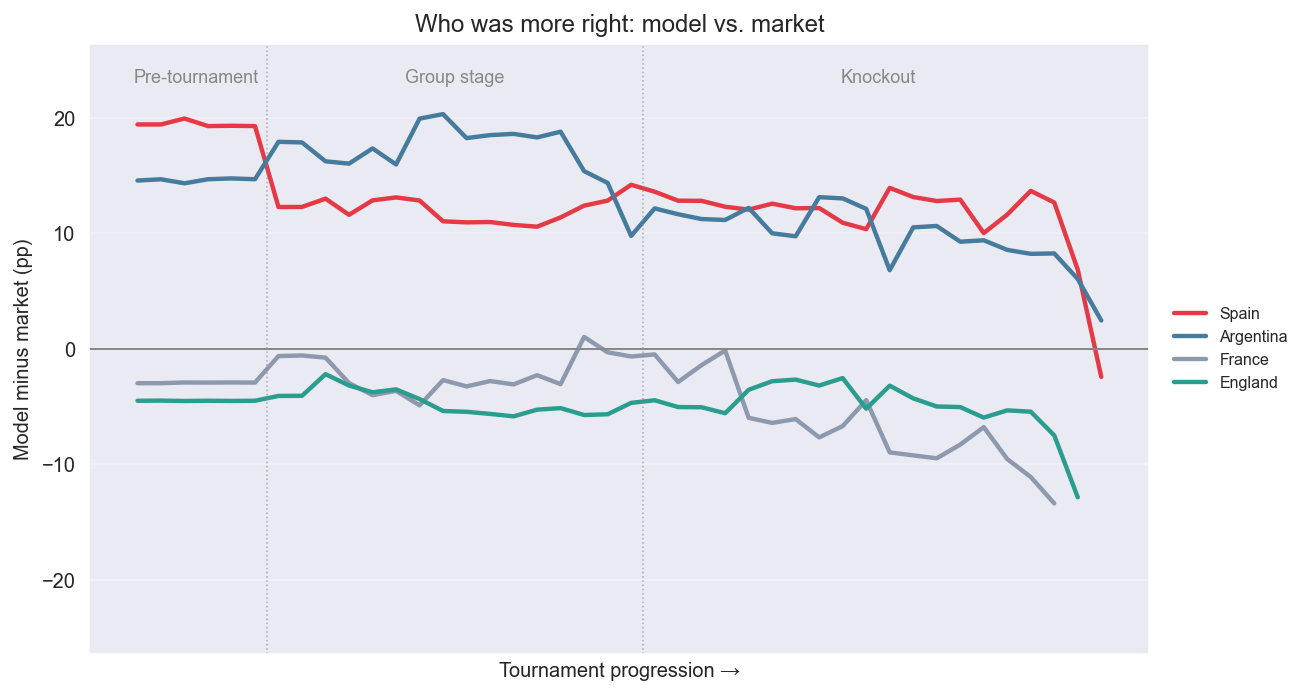
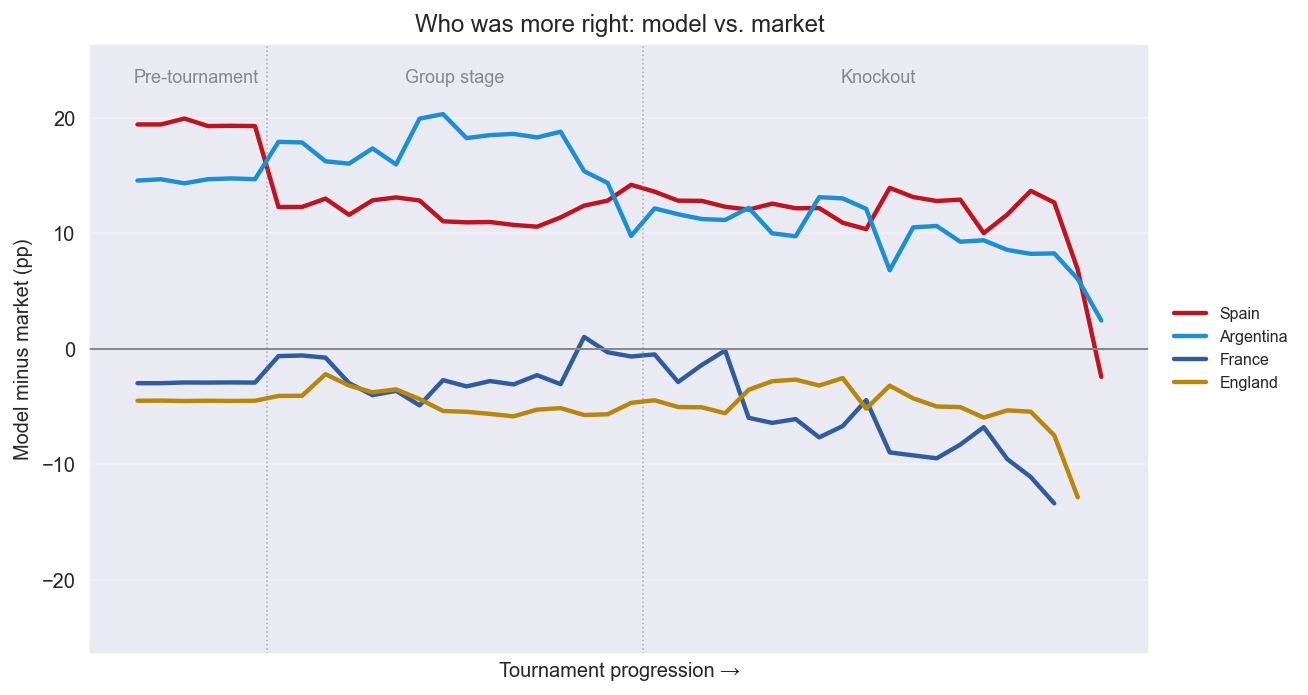
wc26: use kit-recognizable team colors in trajectory charts
Spain's red and Argentina's blue were almost swapped, and France's
"muted secondary" grey-blue didn't read as their navy at all. Switched
to deep red (Spain), light blue (Argentina, albiceleste), deep blue
(France, les Bleus), and gold (England — white doesn't render against
the chart's grey background, and gold nods to the Three Lions crest
without clashing with Spain's red or France's blue). Palette validated
for lightness, chroma, and colorblind separation.

diff --git a/experiments/world_cup_2026/world_cup_2026/build_probability_trajectory_chart.py b/experiments/world_cup_2026/world_cup_2026/build_probability_trajectory_chart.py
@@ -37,10 +37,10 @@ PHASE_LABELS = {
 }
 DEFAULT_TEAMS = ["ES", "AR", "FR", "EN"]
 TEAM_COLORS = {
-    "ES": "#e63946",  # Spain
-    "AR": "#457b9d",  # Argentina
-    "FR": "#8d99ae",  # France — secondary storyline, muted
-    "EN": "#2a9d8f",  # England — pre-tournament #4, semifinalist
+    "ES": "#C1121F",  # Spain — deep red (la Roja)
+    "AR": "#1B8FD4",  # Argentina — light blue (albiceleste)
+    "FR": "#2E5C9E",  # France — deep blue (les Bleus)
+    "EN": "#B8860B",  # England — gold (Three Lions crest; white kit doesn't render)
 }
 
 
